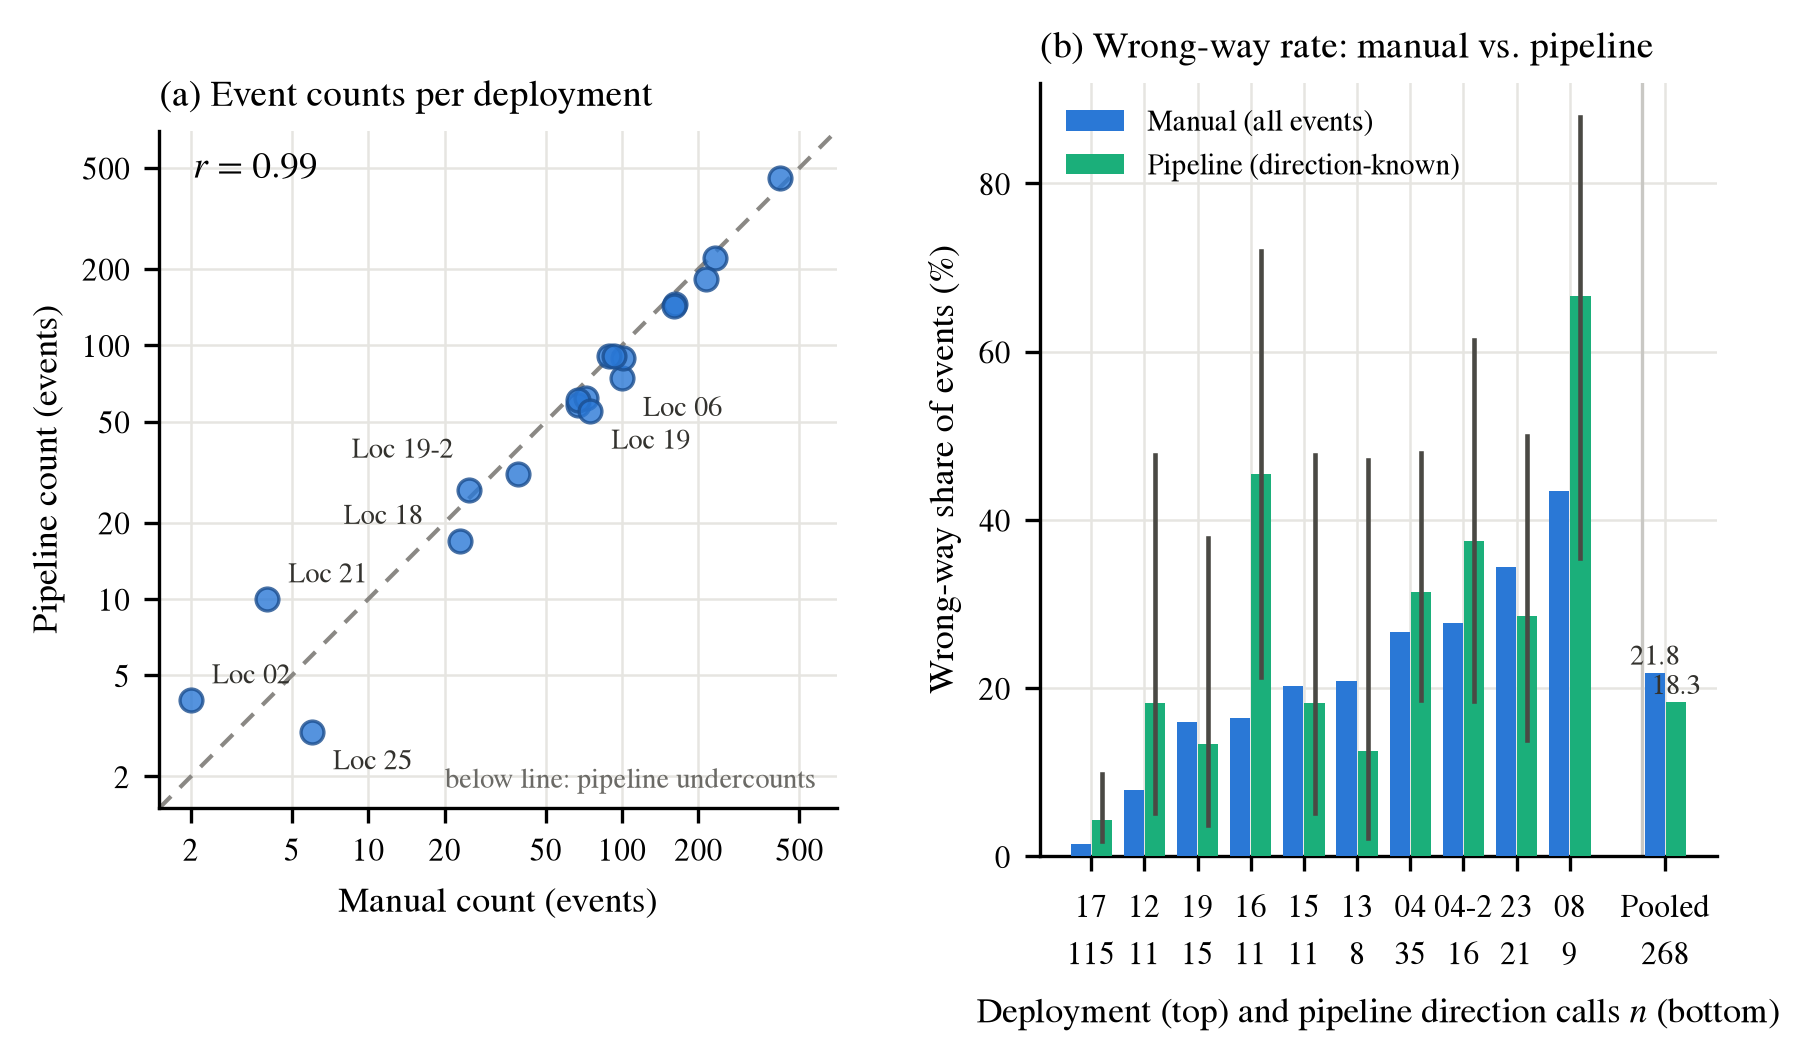
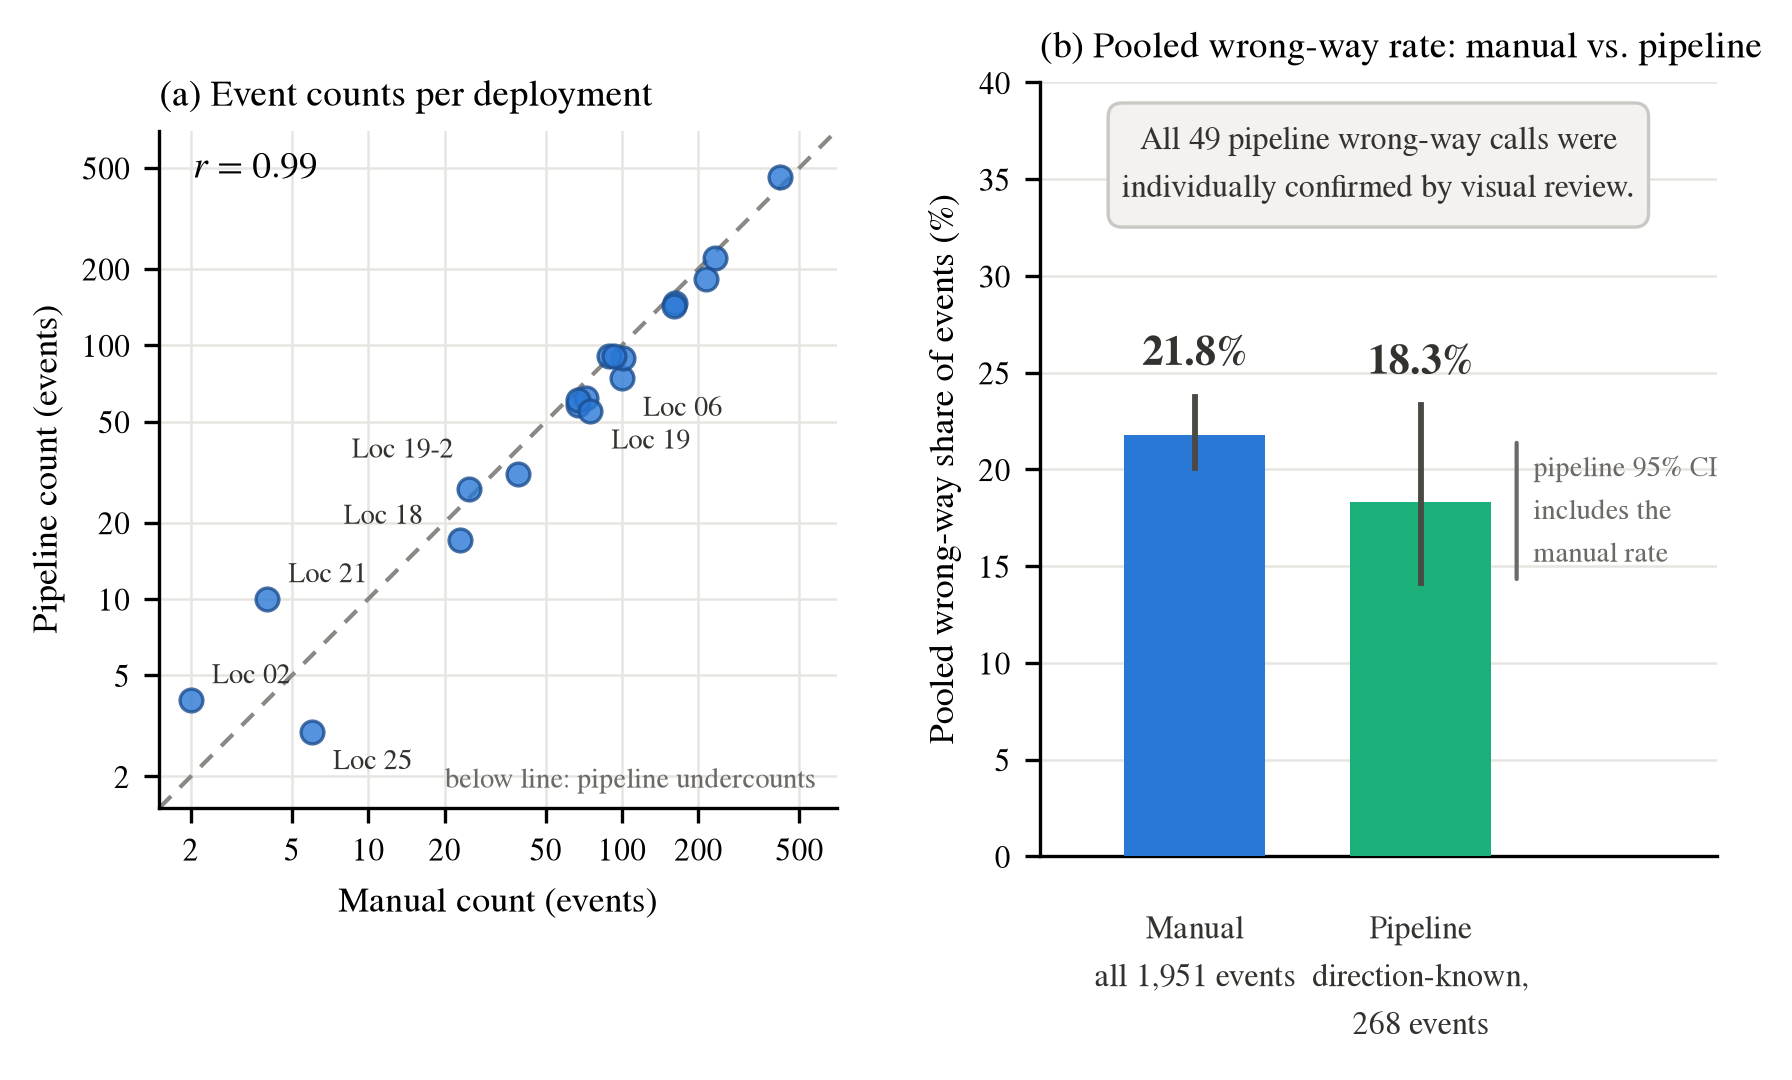
Sync pooled-claim validation figure from main

diff --git a/paper/make_figs_v3.py b/paper/make_figs_v3.py
@@ -105,42 +105,43 @@ def fig_validation(rows, out):
     ax1.set_ylabel("Pipeline count (events)", fontsize=8.5)
     ax1.set_title("(a) Event counts per deployment", fontsize=9, loc="left")
 
-    # (b) paired bars: manual vs pipeline wrong-way rate per deployment,
-    # sorted by manual rate, with the pooled pair at the right.
-    sub = []
-    for r in rows:
-        a, n = PIPE_WW[r["loc"]]
-        if n >= 8:
-            sub.append((r["loc"], 100 * r["ww_total"] / r["total"],
-                        100 * a / n, wilson_ci(a, n), n))
-    sub.sort(key=lambda t: t[1])
-    xs_b = np.arange(len(sub))
-    w = 0.38
-    ax2.bar(xs_b - w / 2 - 0.01, [t[1] for t in sub], width=w, color=BLUE,
-            label="Manual (all events)", zorder=3)
-    ax2.bar(xs_b + w / 2 + 0.01, [t[2] for t in sub], width=w, color=GREEN,
-            label="Pipeline (direction-known)", zorder=3)
-    for x, t in zip(xs_b, sub):
-        lo, hi = t[3]
-        ax2.plot([x + w / 2 + 0.01] * 2, [lo * 100, hi * 100],
-                 color="#4a4944", lw=1.1, zorder=4)
-    xp = len(sub) + 0.8
-    ax2.axvline(len(sub) - 0.15 + 0.5, color="#c9c8c4", lw=0.8, zorder=2)
-    ax2.bar(xp - w / 2 - 0.01, [21.8], width=w, color=BLUE, zorder=3)
-    ax2.bar(xp + w / 2 + 0.01, [18.3], width=w, color=GREEN, zorder=3)
-    ax2.text(xp - w / 2 - 0.01, 22.8, "21.8", ha="center", fontsize=6.8,
-             color=INK)
-    ax2.text(xp + w / 2 + 0.01, 19.3, "18.3", ha="center", fontsize=6.8,
-             color=INK)
-    ticklabels = [f"{t[0]}\n{t[4]}" for t in sub] + ["Pooled\n268"]
-    ax2.set_xticks(list(xs_b) + [xp], ticklabels, fontsize=6.2)
-    ax2.set_ylim(0, 92)
-    ax2.set_ylabel("Wrong-way share of events (%)", fontsize=8.5)
-    ax2.set_xlabel("Deployment (top) and pipeline direction calls $n$ (bottom)",
-                   fontsize=8.5)
-    ax2.legend(fontsize=7.0, frameon=False, loc="upper left")
-    ax2.set_title("(b) Wrong-way rate: manual vs. pipeline", fontsize=9,
-                  loc="left")
+    # (b) pooled wrong-way rate: manual vs pipeline, with Wilson CIs.
+    # The paper's direction-validation claim is pooled, and the figure
+    # shows exactly that claim.
+    m_lo, m_hi = wilson_ci(426, 1951)
+    p_lo, p_hi = wilson_ci(49, 268)
+    xb = [0, 0.8]
+    vals = [21.8, 18.3]
+    ax2.bar(xb[0], vals[0], width=0.5, color=BLUE, zorder=3)
+    ax2.bar(xb[1], vals[1], width=0.5, color=GREEN, zorder=3)
+    ax2.plot([xb[0]] * 2, [m_lo * 100, m_hi * 100], color="#4a4944",
+             lw=1.4, zorder=4)
+    ax2.plot([xb[1]] * 2, [p_lo * 100, p_hi * 100], color="#4a4944",
+             lw=1.4, zorder=4)
+    ax2.text(xb[0], vals[0] + 3.6, "21.8%", ha="center", fontsize=10,
+             fontweight="bold", color=INK)
+    ax2.text(xb[1], p_hi * 100 + 1.6, "18.3%", ha="center", fontsize=10,
+             fontweight="bold", color=INK)
+    ax2.text(xb[0], -2.6, "Manual\nall 1,951 events", ha="center", va="top",
+             fontsize=7.6, color=INK)
+    ax2.text(xb[1], -2.6, "Pipeline\ndirection-known,\n268 events",
+             ha="center", va="top", fontsize=7.6, color=INK)
+    ax2.annotate("", xy=(xb[1] + 0.34, 21.8), xytext=(xb[1] + 0.34, 13.9),
+                 arrowprops=dict(arrowstyle="-", lw=1.0, color=MUTED))
+    ax2.text(xb[1] + 0.40, 17.8, "pipeline 95% CI\nincludes the\nmanual rate",
+             fontsize=6.8, color=MUTED, va="center")
+    ax2.text(0.5, 0.955, "All 49 pipeline wrong-way calls were\n"
+             "individually confirmed by visual review.",
+             transform=ax2.transAxes, fontsize=7.6, color=INK, ha="center",
+             va="top",
+             bbox=dict(boxstyle="round,pad=0.45", facecolor="#f4f2ee",
+                       edgecolor="#c9c8c4", linewidth=0.8))
+    ax2.set_xlim(-0.55, 1.85)
+    ax2.set_ylim(0, 40)
+    ax2.set_xticks([])
+    ax2.set_ylabel("Pooled wrong-way share of events (%)", fontsize=8.5)
+    ax2.set_title("(b) Pooled wrong-way rate: manual vs. pipeline",
+                  fontsize=9, loc="left")
 
     for ax in (ax1, ax2):
         ax.tick_params(labelsize=7.5)
